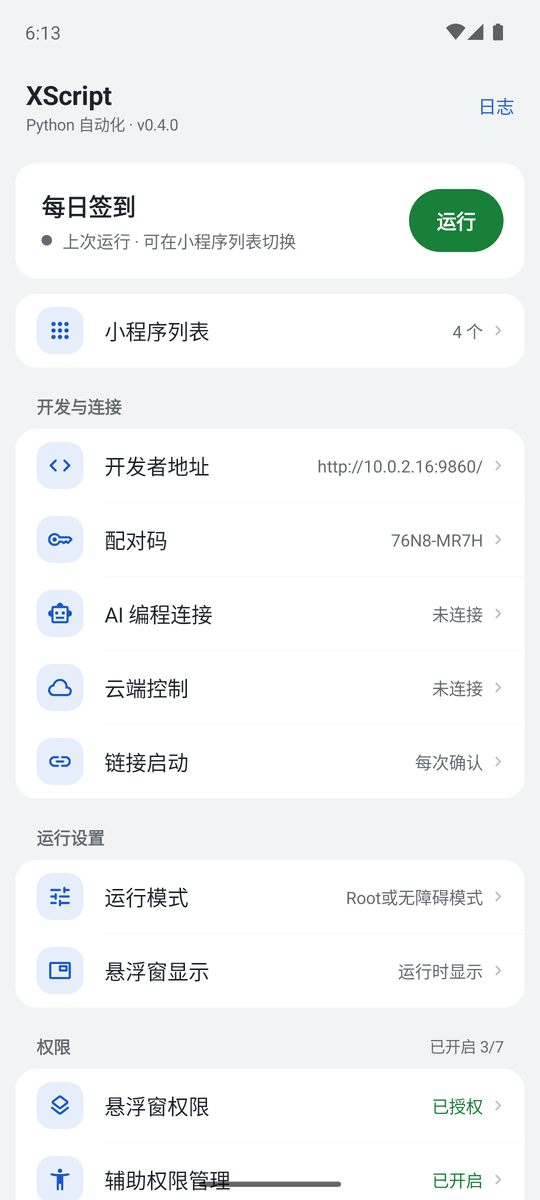
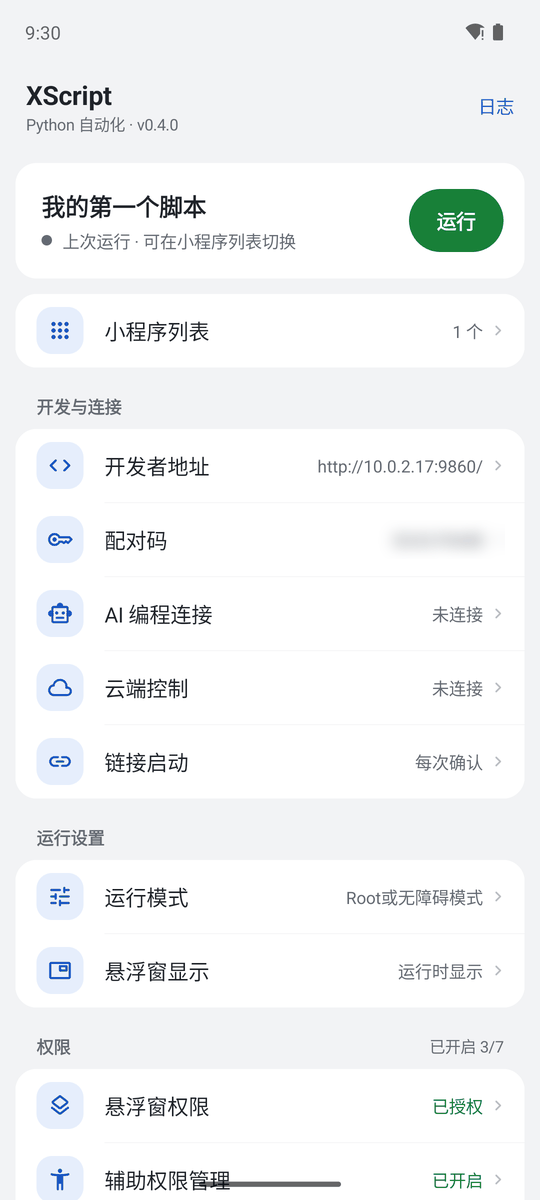
docs: retake phone home screenshot, describe pairing in manual, add endpoint state e2e

diff --git a/scripts/device_endpoint_e2e.py b/scripts/device_endpoint_e2e.py
@@ -1,0 +1,115 @@
+#!/usr/bin/env python3
+"""Drive the home screen's 开发者地址 row through its states on a disposable, root-capable emulator.
+
+    ANDROID_SERIAL=emulator-5556 python3 scripts/device_endpoint_e2e.py com.xscript.app.perf
+
+Checks, reading the row's text with uiautomator:
+  RUNNING        http://<ip>:<port>/
+  NO_FREE_PORT   10 listeners on 9860–9869  -> "端口 9860–9869 都被占用，点此重试"; tap after freeing -> RUNNING
+  NOT_STARTED    `am stopservice`           -> "服务未启动，点此启动"; tap -> RUNNING
+  USB only       Wi-Fi off, eth0 address removed -> "127.0.0.1:<port>（仅 USB）"
+(DISABLED only happens in packaged apps; HomeModelTest covers it.)
+
+It force-stops the app, needs `adb root` (google_apis images) and turns networking off for a while, so it refuses to
+run without an explicit ANDROID_SERIAL: never point it at a device whose data matters. Networking is restored at the end.
+"""
+import os
+import re
+import subprocess
+import sys
+import time
+
+serial = os.environ.get("ANDROID_SERIAL")
+if not serial or len(sys.argv) < 2:
+    raise SystemExit(__doc__)
+pkg = sys.argv[1]
+adb_bin = os.path.join(os.environ.get("ANDROID_HOME", os.path.expanduser("~/Library/Android/sdk")), "platform-tools", "adb")
+if not os.path.isfile(adb_bin):
+    adb_bin = "adb"
+
+
+def adb(*args, check=False):
+    return subprocess.run([adb_bin, "-s", serial, *args], capture_output=True, text=True, timeout=60, check=check).stdout
+
+
+def sh(cmd):
+    return adb("shell", cmd)
+
+
+def launch(restart=True):
+    if restart:
+        sh("am force-stop " + pkg)
+    sh("am start -n %s/com.xscript.app.LauncherActivity" % pkg)
+
+
+def row(timeout=12, want=None):
+    """(text, centre) of the value next to 开发者地址, polling until it matches `want` (a regex)."""
+    end = time.time() + timeout
+    text, centre = "", None
+    while time.time() < end:
+        sh("uiautomator dump /sdcard/xs_endpoint.xml")
+        xml = sh("cat /sdcard/xs_endpoint.xml")
+        nodes = re.findall(r'text="([^"]*)"[^>]*bounds="\[(\d+),(\d+)\]\[(\d+),(\d+)\]"', xml)
+        for i, n in enumerate(nodes):
+            if n[0] == "开发者地址" and i + 1 < len(nodes):
+                t, x1, y1, x2, y2 = nodes[i + 1]
+                text, centre = t, ((int(x1) + int(x2)) // 2, (int(y1) + int(y2)) // 2)
+        if text and (want is None or re.search(want, text)):
+            return text, centre
+        time.sleep(1)
+    raise AssertionError("开发者地址 shows %r, expected /%s/" % (text, want))
+
+
+def tap(centre):
+    sh("input tap %d %d" % centre)
+
+
+def check(name, want, **kw):
+    text, centre = row(want=want, **kw)
+    print("ok  %-14s %s" % (name, text))
+    return centre
+
+
+if adb("root").find("cannot") >= 0:
+    raise SystemExit("needs adb root (use a google_apis emulator image)")
+time.sleep(2)
+adb("wait-for-device")
+a11y = sh("settings get secure enabled_accessibility_services").strip()
+try:
+    launch()
+    check("RUNNING", r"^http://[\d.]+:986\d/$")
+
+    sh("am force-stop " + pkg)  # frees the app's port before the listeners take them all
+    time.sleep(1)
+    sh("for p in $(seq 9860 9869); do nohup toybox nc -L -s 0.0.0.0 -p $p cat >/dev/null 2>&1 & done")
+    time.sleep(1)
+    launch(restart=False)
+    c = check("NO_FREE_PORT", "都被占用")
+    sh("pkill -f 'nc -L'")
+    time.sleep(1)
+    tap(c)
+    check("retry→RUNNING", r"^http://")
+
+    sh("am stopservice -n %s/com.xscript.app.http.DeviceHttpService" % pkg)
+    sh("input keyevent HOME")
+    launch(restart=False)
+    c = check("NOT_STARTED", "服务未启动")
+    tap(c)
+    check("start→RUNNING", r"^http://")
+
+    sh("svc wifi disable")
+    # Android re-adds eth0's address, so keep removing it while the app looks.
+    sh("rm -f /data/local/tmp/xs_net_on; nohup sh -c 'for i in $(seq 1 120); do [ -e /data/local/tmp/xs_net_on ] && break; "
+       "ip link set eth0 down; ip addr flush dev eth0; sleep 0.5; done' >/dev/null 2>&1 &")
+    time.sleep(2)
+    launch()
+    check("USB only", r"^127\.0\.0\.1:986\d（仅 USB）$")
+finally:
+    sh("pkill -f 'nc -L'; touch /data/local/tmp/xs_net_on")
+    time.sleep(1.5)  # let the address-removing loop see the marker and exit
+    sh("ip link set eth0 up; svc wifi enable")
+    if a11y and a11y != "null":  # force-stop switches the accessibility service off
+        sh("settings put secure enabled_accessibility_services " + a11y)
+        sh("settings put secure accessibility_enabled 1")
+    launch(restart=False)
+print("all endpoint states ok")
